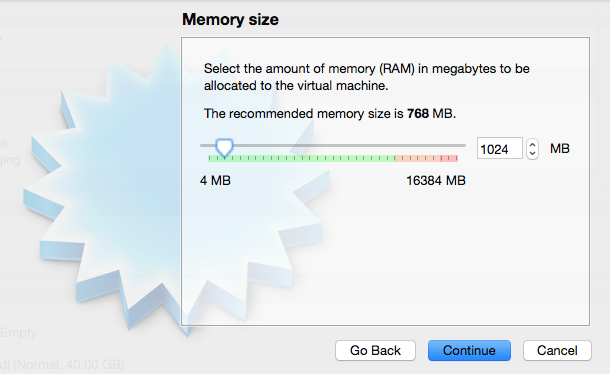
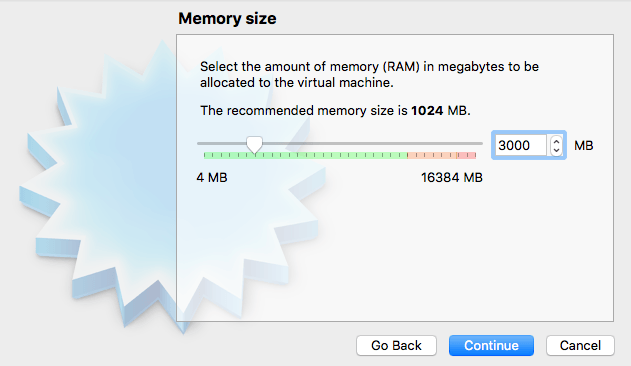
[doc] Increase recommended memory in gitian build guide

diff --git a/doc/gitian-building.md b/doc/gitian-building.md
@@ -55,7 +55,7 @@ In the VirtualBox GUI click "New" and choose the following parameters in the wiz
 
 ![](gitian-building/create_vm_memsize.png)
 
-- Memory Size: at least 1024MB, anything less will really slow down the build.
+- Memory Size: at least 3000MB, anything less and the build might not complete.
 
 ![](gitian-building/create_vm_hard_disk.png)
 